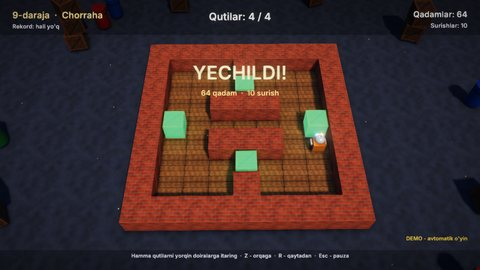
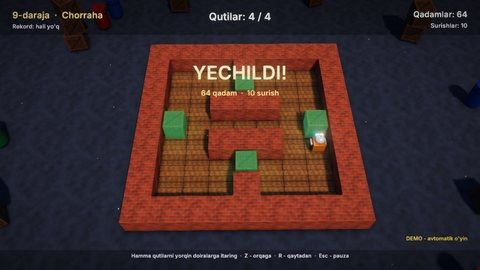
M24: Omborchi - maqsaddagi qutilar teksturasi ko'rinadigan yengil yashil tus bilan; launcher rasmi yangilandi
Claude-Session: https://claude.ai/code/session_01XP37bWvc65iextS8fBxGrZ

diff --git a/Projects/Sokoban/Source/SokobanGame.cpp b/Projects/Sokoban/Source/SokobanGame.cpp
@@ -577,8 +577,8 @@ void SokobanGame::StyleBoxesAndGoals(bool)
         if (auto* mr = box.TryGetComponent<MeshRendererComponent>())
         {
             mr->Mat.Emission = on ? glm::vec3(0.25f, 1.0f, 0.45f) : glm::vec3(0.0f);
-            mr->Mat.EmissionStrength = on ? 0.55f : 0.0f;
-            mr->Mat.Albedo = on ? glm::vec4(0.8f, 1.0f, 0.8f, 1.0f) : glm::vec4(1.0f);
+            mr->Mat.EmissionStrength = on ? 0.18f : 0.0f;
+            mr->Mat.Albedo = on ? glm::vec4(0.75f, 1.0f, 0.75f, 1.0f) : glm::vec4(1.0f);
         }
     }
     for (auto& [cell, goal] : m_GoalEntities)
